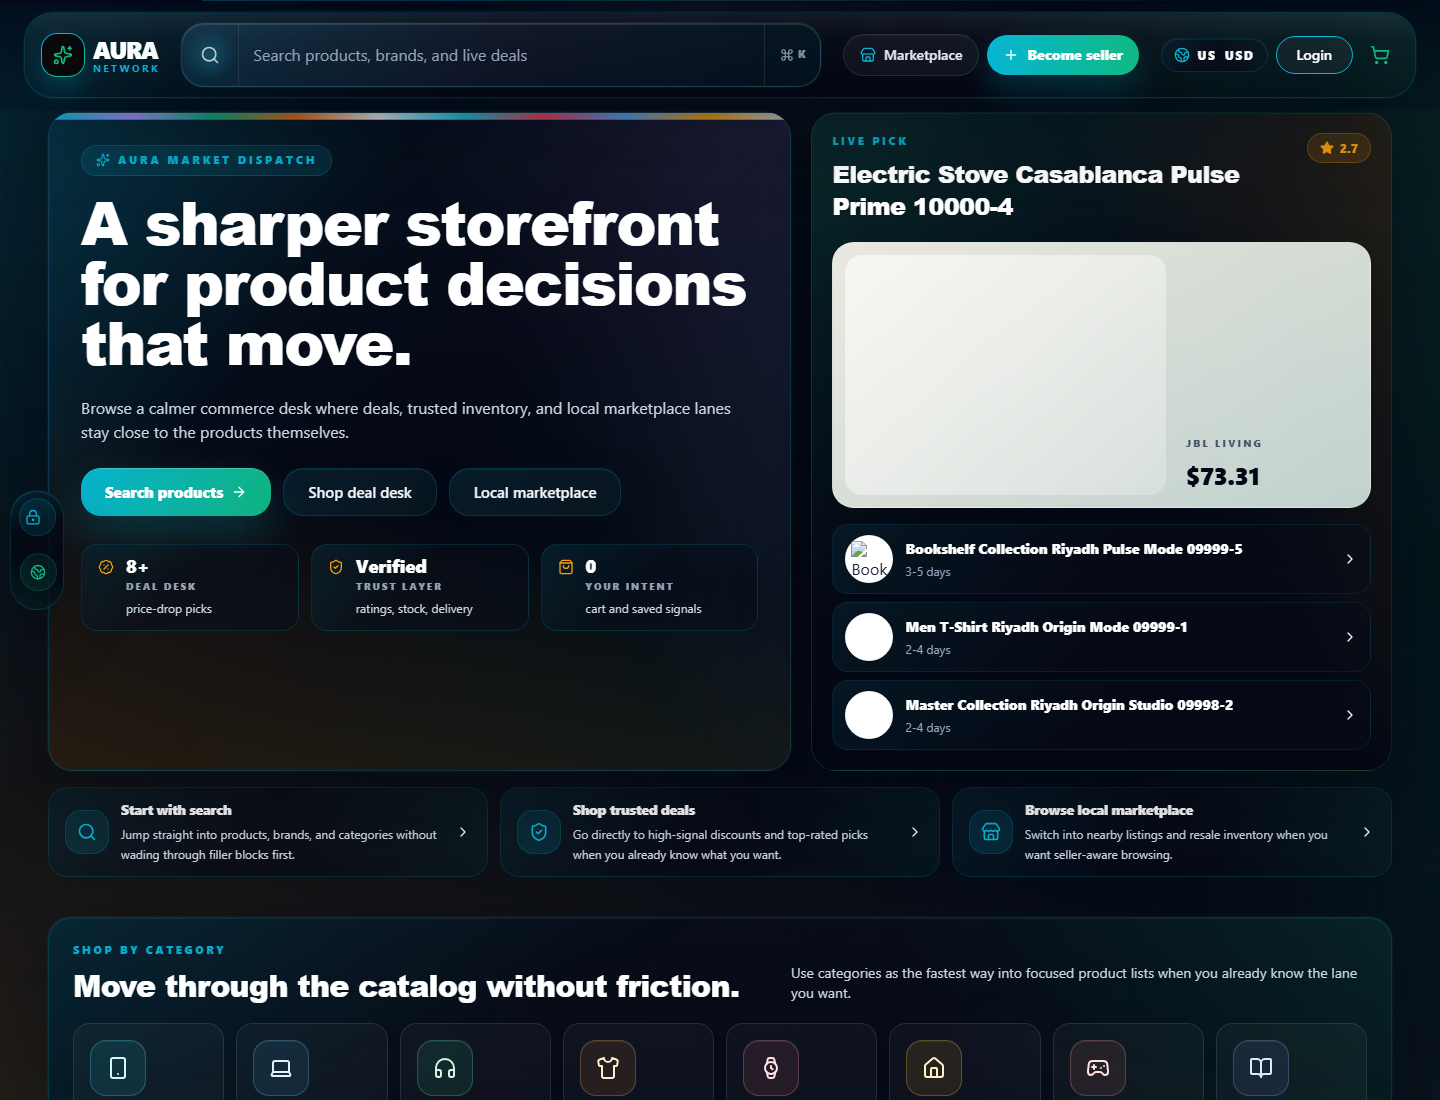
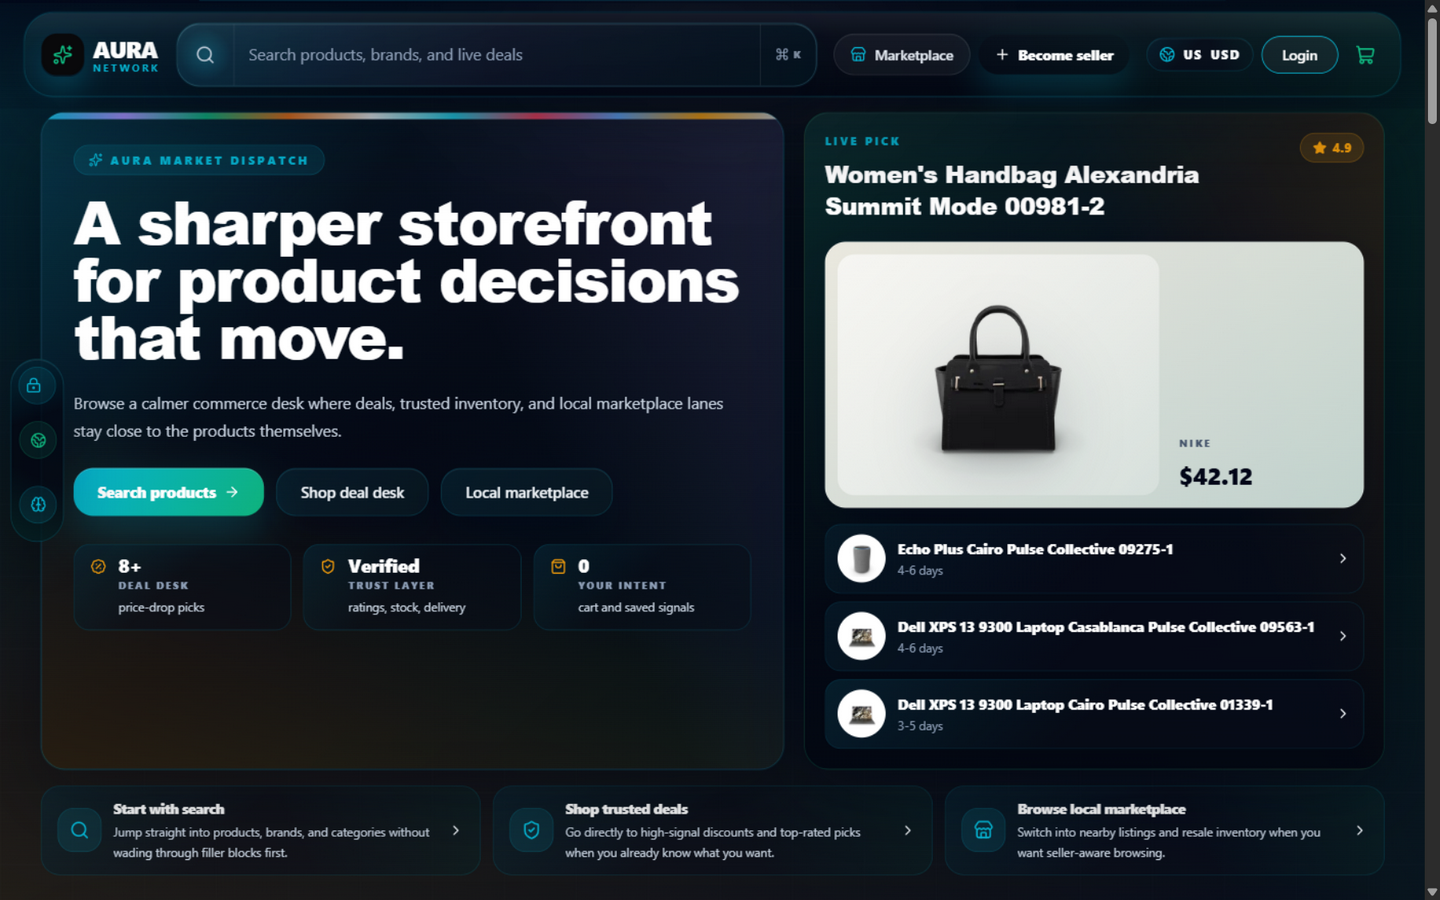
docs(readme): 2026 refresh — the self-maintaining dependency train and @aurasec surface (#720)
* ci: scope status-watch dedup to the triggering commit

The static concurrency group already collapsed same-commit bursts
(cancelled watch runs are superseded duplicates by design — they read
as red noise on the commit page, which sparked tonight's false alarm),
but it also let a watch for a NEWER commit cancel an in-flight watch
for an older one, silently dropping that commit's completion webhook
from the status system. Grouping by workflow_run.head_sha keeps the
burst dedup and guarantees every commit's final state is notified
exactly once.

* docs(readme): 2026 refresh — the self-maintaining dependency train and @aurasec surface

The README had been number-maintained but not design-maintained: the
fall's flagship engineering was invisible. This adds it and re-measures
every receipt.

New:
- 'The self-maintaining dependency train' section with its own flow
  diagram: Dependabot -> policy classification -> safe/risk lanes ->
  cooldown auto-rerun -> PAT-armed merge under branch protection, with
  the design invariant stated plainly (can stall, never bad-merge)
- Supply-chain deep dive: registry+integrity lockfile gate, lifecycle
  allowlist, 7-day release cooldown, the 15-assertion automerge
  controller, and the @aurasec packages that ship the gate engines to
  npm with SLSA provenance
- Dependency Automerge badge; packages/ row in the repository map;
  supply-chain row in the tech stack

Re-measured receipts: 1,944 commits · 3,231 tracked files · 513
[…]

diff --git a/README.md b/README.md
@@ -4,18 +4,19 @@
 
 **A production-grade commerce platform — AI-assisted shopping, bank-grade checkout integrity, and a byte-verified release train.**
 
-One release train. Six storefront hosts. Byte-identical and fail-closed.
+One release train. Six storefront hosts. Byte-identical and fail-closed. Dependencies that upgrade themselves — under policy, behind every gate.
 
 [![Quality Foundation](https://img.shields.io/github/actions/workflow/status/MdSaifulIslamMSI/Aura/quality.yml?branch=main&label=quality&style=for-the-badge)](https://github.com/MdSaifulIslamMSI/Aura/actions/workflows/quality.yml)
 [![Security Gates](https://img.shields.io/github/actions/workflow/status/MdSaifulIslamMSI/Aura/security-gates.yml?branch=main&label=security%20gates&style=for-the-badge)](https://github.com/MdSaifulIslamMSI/Aura/actions/workflows/security-gates.yml)
 [![CodeQL](https://img.shields.io/github/actions/workflow/status/MdSaifulIslamMSI/Aura/codeql.yml?branch=main&label=codeql&style=for-the-badge)](https://github.com/MdSaifulIslamMSI/Aura/actions/workflows/codeql.yml)
+[![Dependency Automerge](https://img.shields.io/github/actions/workflow/status/MdSaifulIslamMSI/Aura/dependency-automerge.yml?branch=main&label=deps%20automerge&style=for-the-badge)](https://github.com/MdSaifulIslamMSI/Aura/actions/workflows/dependency-automerge.yml)
 [![Production Gate](https://img.shields.io/github/actions/workflow/status/MdSaifulIslamMSI/Aura/production-on-push.yml?branch=main&label=production%20gate&style=for-the-badge)](https://github.com/MdSaifulIslamMSI/Aura/actions/workflows/production-on-push.yml)
 [![Nightly Test Fleet](https://img.shields.io/github/actions/workflow/status/MdSaifulIslamMSI/Aura/nightly-tests.yml?branch=main&label=nightly%20fleet&style=for-the-badge)](https://github.com/MdSaifulIslamMSI/Aura/actions/workflows/nightly-tests.yml)
 [![License](https://img.shields.io/github/license/MdSaifulIslamMSI/Aura?style=for-the-badge&label=license)](LICENSE)
 
 [Storefront](https://aurapilot.vercel.app) &middot; [Host fleet](#live-production-surfaces) &middot; [Gateway](https://aura-gateway.vercel.app) &middot; [Status page](https://aurapilot.vercel.app/status) &middot; [Architecture](docs/system-architecture.md) &middot; [Security](SECURITY.md) &middot; [The story](AURA-STORY.md)
 
-**1,929** commits &nbsp;·&nbsp; **≈550K** lines of first-party code &nbsp;·&nbsp; **767** test files &nbsp;·&nbsp; **56** workflows &nbsp;·&nbsp; **20** languages &nbsp;·&nbsp; **11** currencies &nbsp;·&nbsp; **6** storefront hosts
+**1,944** commits &nbsp;·&nbsp; **≈550K** lines of first-party code &nbsp;·&nbsp; **763** test files &nbsp;·&nbsp; **56** workflows &nbsp;·&nbsp; **2** packages on npm &nbsp;·&nbsp; **20** languages &nbsp;·&nbsp; **11** currencies &nbsp;·&nbsp; **6** storefront hosts
 
 </div>
 
@@ -35,17 +36,18 @@ This repository is not a demo landing page. It is the operating surface for prod
 
 | Indicator | Value | Receipt |
 |---|---:|---|
-| Commits | 1,929 | `git rev-list --count HEAD` |
-| Tracked files | 3,213 | `git ls-files` |
+| Commits | 1,944 | `git rev-list --count HEAD` |
+| Tracked files | 3,231 | `git ls-files` |
 | First-party source | ≈550,000 lines | `app/src` · `server` · `desktop` · `scripts` |
-| Frontend unit tests | 239 files, 1,670 cases | `app/src/**/*.test.*` (Vitest) |
-| Backend test files | 500 | `server/tests/` (Jest) |
-| Tiered suites | 225 regression · 257 nightly · 0 quarantine | `config/test-tiers.json` |
-| Playwright E2E | 17 specs, 93 cases | `app/e2e/` |
+| Frontend unit tests | 239 files, ≈1,700 cases | `app/src/**/*.test.*` (Vitest) |
+| Backend test files | 513 | `server/tests/` (Jest) |
+| Tiered suites | 233 regression · 258 nightly · 0 quarantine | `config/test-tiers.json` |
+| Playwright E2E | 21 specs | `app/e2e/` |
 | Desktop tests | 11 files, 79 cases | `desktop/*.test.cjs` |
 | GitHub Actions workflows | 56, incl. 8 rollback lanes | `.github/workflows/` |
-| npm scripts | 288 | root `package.json` |
-| Documentation | 310+ markdown docs | `docs/` + root |
+| npm scripts | 293 | root `package.json` |
+| Published packages | 2 — `@aurasec/supply-chain-gates`, `@aurasec/route-security-matrix` | `packages/` · npm |
+| Documentation | 480+ markdown docs | `git ls-files '*.md'` |
 | Languages · currencies | 20 (+RTL) · 11 | `app/src/config/marketConfig.js` |
 | Storefront hosts | 6, byte-identical | `deploy-netlify.yml` byte gate |
 | Catalog scale | 1,000,000-product dataset | `server/data/catalog_1m.jsonl` |
@@ -137,6 +139,31 @@ flowchart LR
 
 Details: [CI/CD and command center](docs/ci-cd.md) · [rollback runbook](docs/rollback-runbook.md)
 
+## The self-maintaining dependency train
+
+Dependencies upgrade themselves here — weekly, in the open, under a policy stored as data — and the failure direction is deliberate: the controller can stall a PR, but it can never merge past a gate.
+
+```mermaid
+flowchart LR
+    A[Dependabot opens grouped PRs] --> B{Policy controller classifies}
+    B -->|patch / minor / tooling| C[Safe lane]
+    B -->|blocklisted major or unsynced override seam| D[Risk lane - labeled, reason posted]
+    C --> E{All checks green?}
+    E -->|red| F[Daily sweep re-runs the failed job - cooldowns clear as real time passes]
+    F --> E
+    E -->|green| G[Arm auto-merge]
+    G --> H[Branch protection merges]
+    D --> I[Human reviews - the only clicks in the system]
+```
+
+- **Policy as data** — [`config/dependency-policy.json`](config/dependency-policy.json): which majors always need a human (payments, auth, data, edge), and which override pins are hand-paired. Retune the appetite without touching CI.
+- **Seam-alignment guard** — the `overrides` blocks across root/app/server are hand-synced pin seams; a bump auto-merges only when every manifest that pins a package converges on one value. Partial rewrites go to the human lane.
+- **Supply-chain gates on bot traffic** — every lockfile resolution verified against the official npm registry with an integrity hash, lifecycle install-scripts allowlisted, and freshly-published versions sit out a 7-day release cooldown with a fail-closed, expiring exception list for urgent security fixes.
+- **A token chain with least privilege** — `GITHUB_TOKEN` classifies, a single-repo PAT arms merges, and nothing anywhere can bypass branch protection.
+- **Proof, not promise** — the risk lane has held a Stripe major and a Sentry major in the human queue with posted reasons; a real high-severity advisory (`source-map-js`, GHSA-68fv-2mgg-jv7q) was caught in a Dependabot group and patched ahead of the weekly cycle.
+
+Details: [dependency automation](docs/dependency-automation.md) · [security scanning](docs/security-scanning.md) · [`@aurasec/supply-chain-gates` on npm](https://www.npmjs.com/package/@aurasec/supply-chain-gates)
+
 ## Live production surfaces
 
 | Surface | URL | Role |
@@ -167,6 +194,19 @@ Production pages expose release traceability through `aura-release-id` and `aura
 - **Post-quantum readiness**: an OpenSSL 3.5 PQC lab evaluates migration paths before they are needed.
 
 Further reading: [security architecture](docs/security/security-architecture.md) · [threat model](docs/security/threat-model.md) · [zero-trust sensitive actions](docs/security/zero-trust-sensitive-actions.md) · [secretless frontend](docs/security/secretless-frontend.md) · [trusted-device architecture](docs/trusted-device-architecture.md) · [security maturity scorecard](docs/security/security-maturity-scorecard.md)
+
+</details>
+
+<details>
+<summary><strong>🔒 Supply chain, self-maintained</strong></summary>
+
+- **Registry integrity**: every resolution in all three lockfiles (~2,100 entries) must resolve over HTTPS to the official npm registry with an integrity hash — enforced in CI by [`@aurasec/supply-chain-gates`](packages/supply-chain-gates/), the same code published to npm with SLSA build provenance and verified by cold install.
+- **Lifecycle scripts**: only explicitly allowlisted packages may run install scripts; the gate is fail-closed and the list is reviewed, not assumed.
+- **Release cooldown**: new dependency versions wait out a 7-day age window before riding the automerge train — day-one publishes cannot take the fast lane. Urgent security fixes take an *expiring* allowlist entry that fails the gate once it lapses.
+- **Route security as a library**: [`@aurasec/route-security-matrix`](packages/route-security-matrix/) derives every route from source and fails CI unless each state-changing route declares — and enforces — its posture; the npm package ships the same engine.
+- **Automerge controller**: `scripts/github/dependency-automerge-policy.mjs` — self-tested (15 assertions), retrying, conflict- and race-tolerant, and structurally incapable of bypassing branch protection.
+
+Further reading: [dependency automation](docs/dependency-automation.md) · [security scanning](docs/security-scanning.md) · [scanner triage playbook](docs/scanner-triage-playbook.md)
 
 </details>
 
@@ -228,7 +268,8 @@ Further reading: [SLOs](docs/sre/slo.md) · [latency and reliability budgets](do
 | Desktop | Electron 44, electron-builder, electron-updater, safeStorage |
 | Mobile | Capacitor 8 (Android + iOS), native Firebase auth providers |
 | Testing | Vitest 5, Jest, Playwright 1.63, axe-core, visual regression, k6, Lighthouse CI |
-| CI/CD | 56 GitHub Actions workflows, 12-gate production command center, 8 rollback lanes |
+| CI/CD | 56 GitHub Actions workflows, 12-gate production command center, 8 rollback lanes, policy-driven dependency automerge |
+| Supply chain | `@aurasec/supply-chain-gates` · `@aurasec/route-security-matrix` (npm, SLSA provenance) · registry+integrity lockfile gate · 7-day release cooldown |
 | Observability | OpenTelemetry, Prometheus, Grafana, Loki, Alertmanager, Sentry, Datadog RUM |
 | Cloud | AWS EC2/S3/CloudFront/SSM/KMS via OIDC, Docker Compose, OpenTofu, self-hosted edge WAF |
 
@@ -239,6 +280,7 @@ Further reading: [SLOs](docs/sre/slo.md) · [latency and reliability budgets](do
 | [`app/`](app/) | ~306K lines, 239 test files | React storefront, AI assistant UX, admin suite, PWA, Capacitor shell, Playwright E2E |
 | [`server/`](server/) | ~214K lines incl. 500 test files | Express API, worker runtime, auth, commerce, payments, AI gateways, jobs |
 | [`desktop/`](desktop/) | ~4K lines, 79 tests | Electron main process, secure storage, auth handoff, hardened proxy |
+| [`packages/`](packages/) | 2 packages | `@aurasec/supply-chain-gates` · `@aurasec/route-security-matrix` — CI gate engines, published to npm |
 | [`gateway/`](gateway/) | static site | Public gateway and release-link directory |
 | [`infra/`](infra/) | scripts + IaC | AWS automation, blue-green deploy scripts, edge WAF, OpenTofu, PQC lab |
 | [`scripts/`](scripts/) | ~28K lines, 262 files | CI doctors, validators, generators, rollback and smoke tooling |
